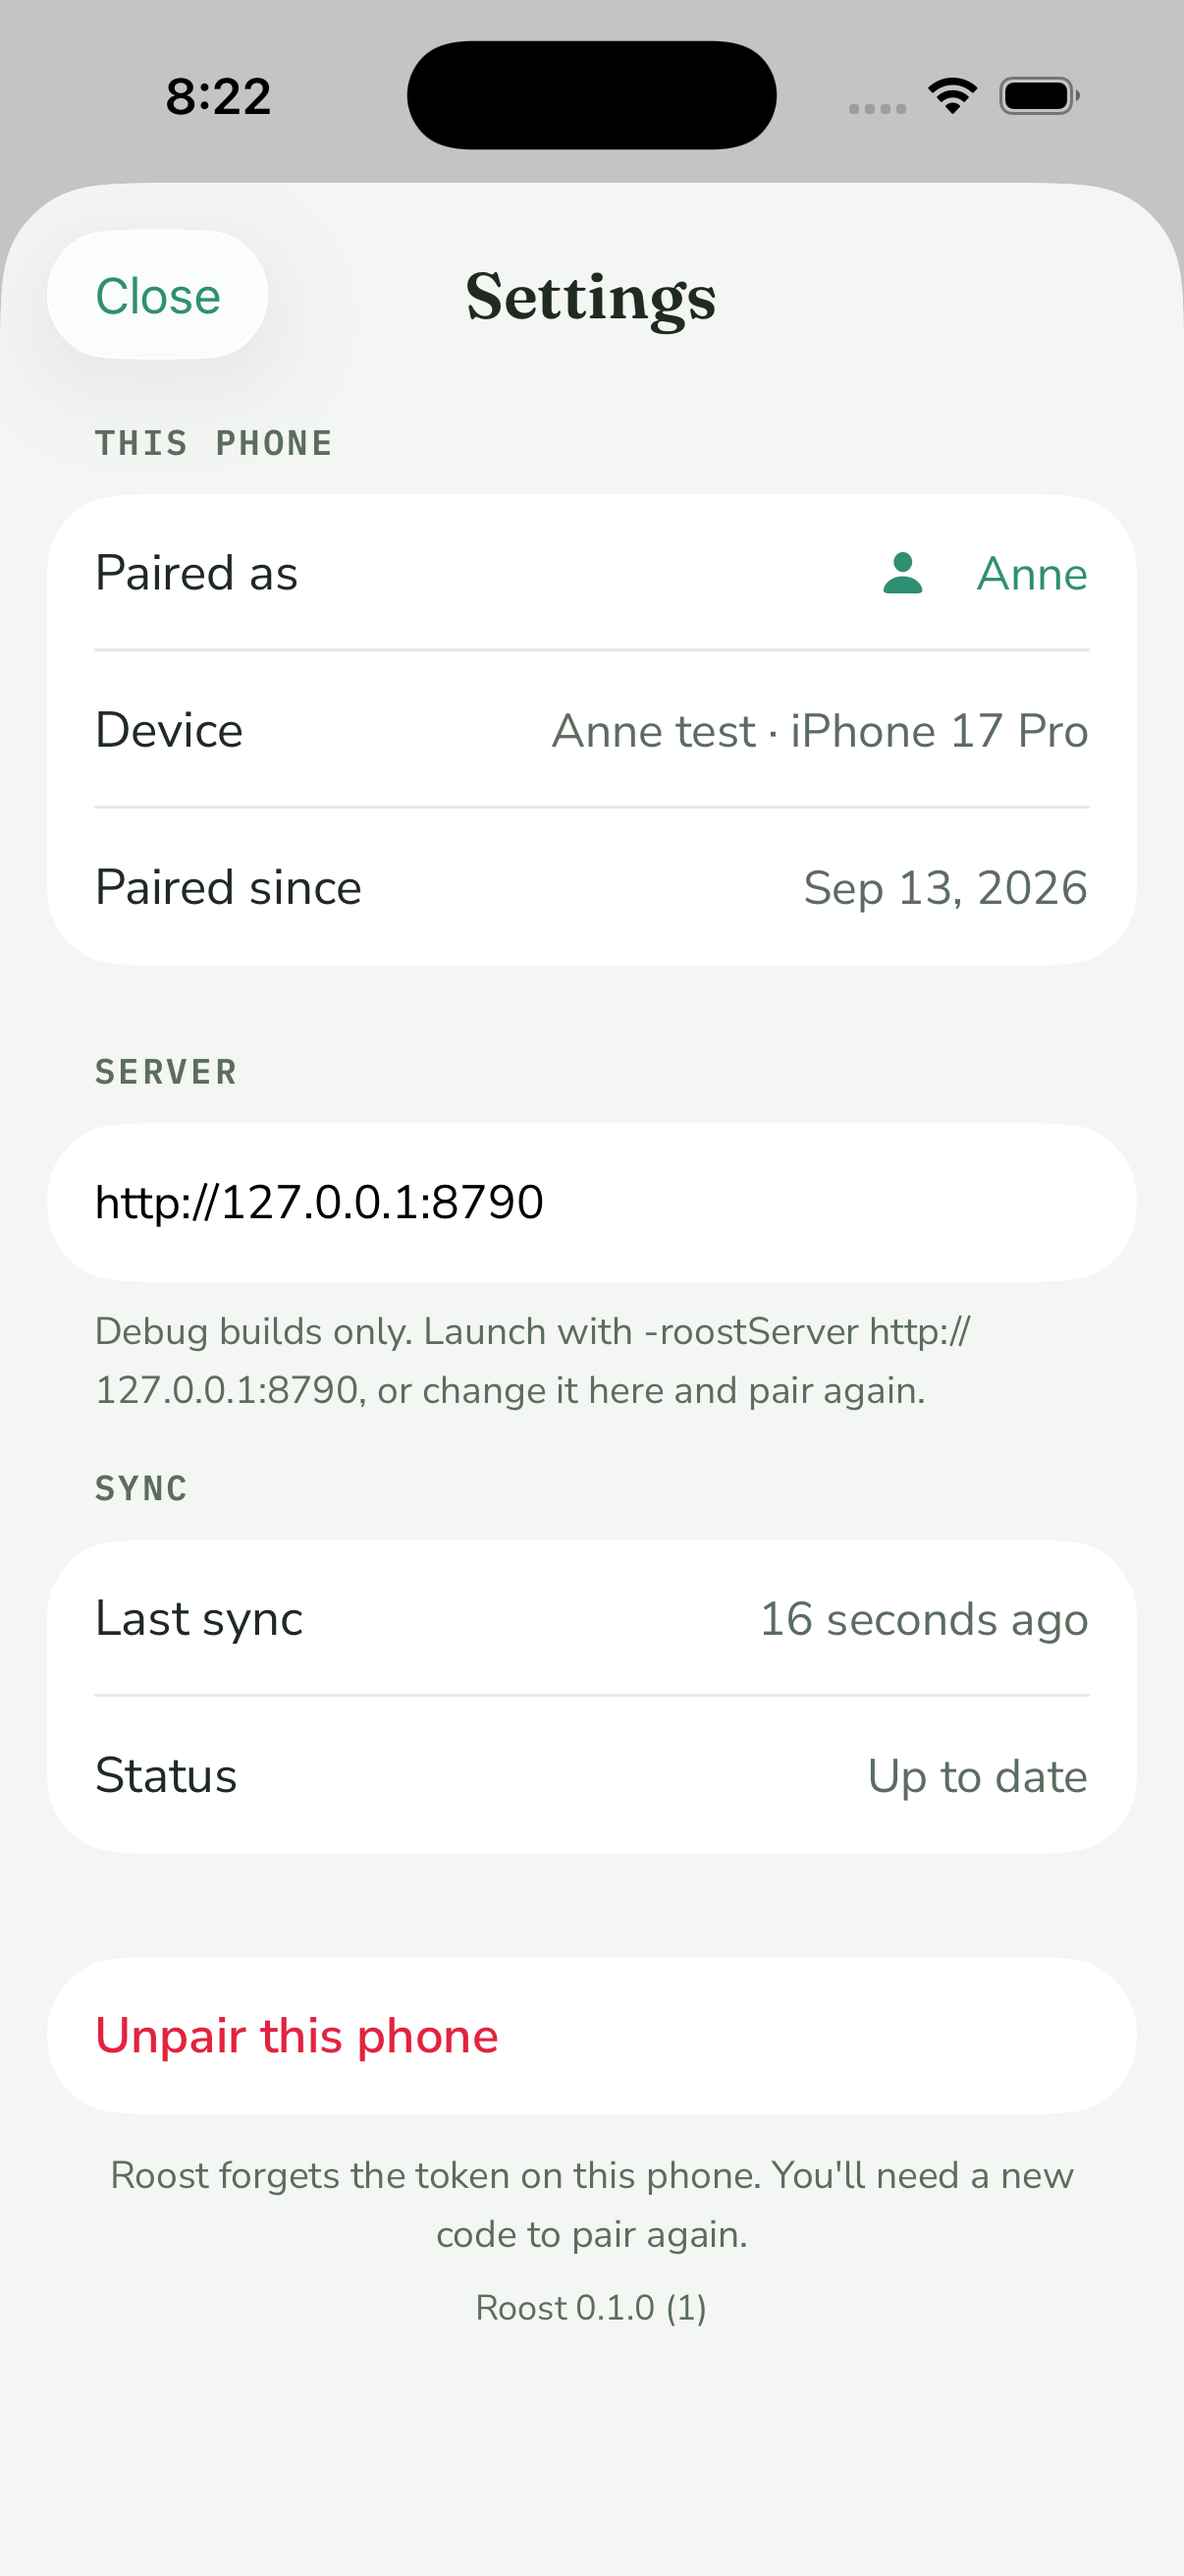
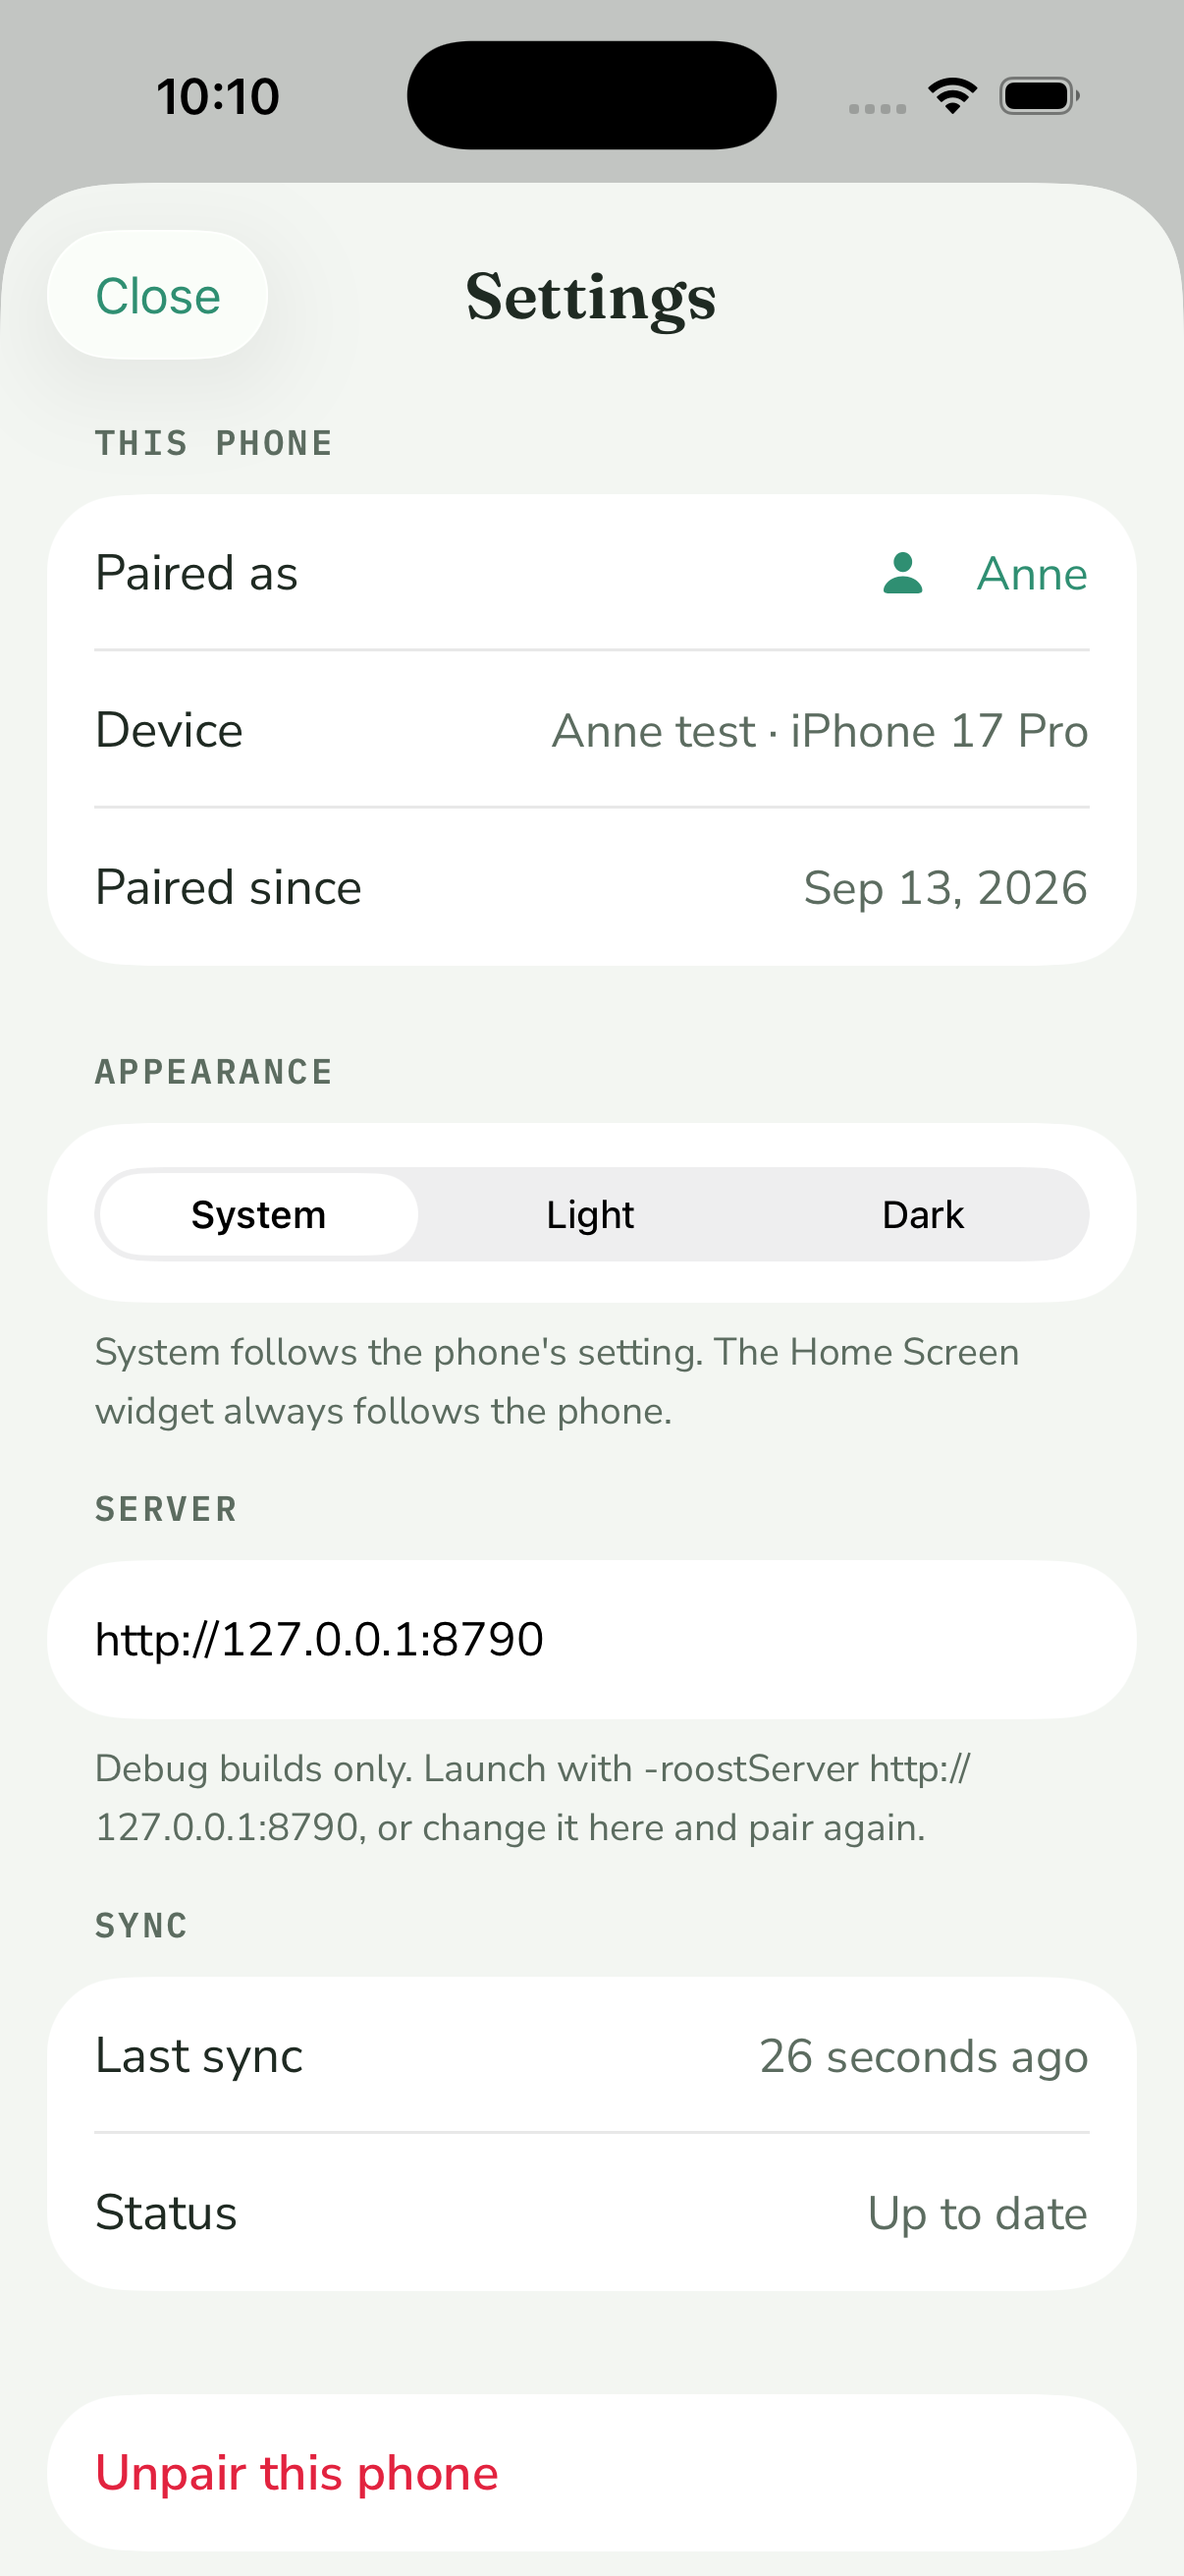
Appearance choice in Settings: System, Light, Dark
Every RoostDesign token has always had a light and a dark value, so the app
has drawn itself in dark mode since the first screen. What it had no way to
do was disagree with the phone. This is that switch.

`Appearance` is one key in UserDefaults read by `RoostApp` as a single
`.preferredColorScheme` on the window's content, which is why one tap
repaints the sheet it was tapped in, the Tasks tab behind it, and Kitchen
mode's cover together. `system` maps to nil — "do not override" — so it is
the phone's setting again rather than a third palette. A stored value this
build does not recognise reads as `system` rather than leaving the picker
with no selection, and `Appearance.stored` is the one read that decides it.

`SettingsScreen` repeats the same modifier on itself, and that line is
load-bearing: a sheet presented while the window already carries an override
keeps the scheme it was born with. Without it, picking Light with Dark
already on repainted the screen behind and left the sheet dark until it was
dismissed — which is the one moment the reader is looking at the sheet.

Segments up to the accessibility sizes, a menu past them: three words cannot
share one row's width once each is 50-odd points tall. Checked at
AccessibilityXXXL, where the row reads "Appearance / Dark" and nothing
truncates.

Per device, never synced. The widget cannot follow it — WidgetKit renders a
separate process in the system appearance — and the footer under the picker
says so.

diff --git a/Roost/Tests/AppearanceTests.swift b/Roost/Tests/AppearanceTests.swift
@@ -1,0 +1,94 @@
+// D-10: the appearance choice.
+//
+// Three small contracts, and each of them is a way the screen could go wrong rather than a restatement of
+// the enum. The **raw values** are what sits in `UserDefaults` on a phone that has already been used, so
+// renaming one silently resets everybody's choice. The **mapping** is the whole feature: `nil` is what
+// "follow the phone" means to SwiftUI, and a `.light` that came back `nil` would look like the setting had
+// no effect at all. And the **fallback** is the downgrade path — a value written by a newer build, or junk
+// — which has to read as `.system` rather than leave the picker with no selection.
+@testable import Roost
+import SwiftUI
+import XCTest
+
+final class AppearanceTests: XCTestCase {
+    // MARK: - what is on disk
+
+    /// The strings a shipped phone already has stored. Changing one is changing everybody's setting back.
+    func testTheRawValuesAreTheOnesWrittenToDisk() {
+        XCTAssertEqual(Appearance.system.rawValue, "system")
+        XCTAssertEqual(Appearance.light.rawValue, "light")
+        XCTAssertEqual(Appearance.dark.rawValue, "dark")
+        XCTAssertEqual(Appearance.storageKey, "appearance")
+    }
+
+    /// Left to right in the segmented control, and the order the menu lists.
+    func testTheChoicesComeOutSystemLightDark() {
+        XCTAssertEqual(Appearance.allCases, [.system, .light, .dark])
+        XCTAssertEqual(Appearance.allCases.map(\.id), ["system", "light", "dark"])
+    }
+
+    func testEveryChoiceHasItsOwnTitle() {
+        XCTAssertEqual(Appearance.system.title, Strings.Settings.appearanceSystem)
+        XCTAssertEqual(Appearance.light.title, Strings.Settings.appearanceLight)
+        XCTAssertEqual(Appearance.dark.title, Strings.Settings.appearanceDark)
+        XCTAssertEqual(Set(Appearance.allCases.map(\.title)).count, Appearance.allCases.count)
+    }
+
+    // MARK: - what the window is told
+
+    /// `nil` is not "no answer" — it is the answer. It is what hands the decision back to iOS, and it is
+    /// the only value that lets the phone's own setting still move the app.
+    func testSystemOverridesNothing() {
+        XCTAssertNil(Appearance.system.colorScheme)
+    }
+
+    func testLightAndDarkOverrideThePhone() {
+        XCTAssertEqual(Appearance.light.colorScheme, .light)
+        XCTAssertEqual(Appearance.dark.colorScheme, .dark)
+    }
+
+    // MARK: - reading it back
+
+    /// A phone that has never been to Settings.
+    func testNothingStoredIsSystem() {
+        XCTAssertEqual(Appearance.stored(nil), .system)
+    }
+
+    func testAStoredChoiceComesBack() {
+        XCTAssertEqual(Appearance.stored("system"), .system)
+        XCTAssertEqual(Appearance.stored("light"), .light)
+        XCTAssertEqual(Appearance.stored("dark"), .dark)
+    }
+
+    /// A value from a newer build, a leftover, an empty string, a case that does not match. All of them are
+    /// the system appearance, which is the one state that is never wrong.
+    func testAnythingElseIsSystem() {
+        for raw in ["", "sepia", "Dark", "true", "  light  ", "0"] {
+            XCTAssertEqual(Appearance.stored(raw), .system, "'\(raw)' should fall back rather than stick")
+        }
+    }
+
+    /// The same read the app makes, through a real `UserDefaults` rather than a literal: `@AppStorage`
+    /// hands over whatever string is under the key, and `stored` is the only thing between that and the
+    /// window's colour scheme.
+    func testAJunkValueUnderTheKeyReadsAsSystem() throws {
+        let suite = "roost-appearance-tests-\(UUID().uuidString)"
+        let defaults = try XCTUnwrap(UserDefaults(suiteName: suite))
+        defer { defaults.removePersistentDomain(forName: suite) }
+
+        XCTAssertEqual(Appearance.stored(defaults.string(forKey: Appearance.storageKey)), .system)
+
+        defaults.set("dark", forKey: Appearance.storageKey)
+        XCTAssertEqual(Appearance.stored(defaults.string(forKey: Appearance.storageKey)), .dark)
+
+        defaults.set("moonlight", forKey: Appearance.storageKey)
+        XCTAssertEqual(Appearance.stored(defaults.string(forKey: Appearance.storageKey)), .system)
+    }
+
+    /// Round trip: what the picker writes is what the app reads.
+    func testWhatThePickerWritesIsWhatTheAppReads() {
+        for choice in Appearance.allCases {
+            XCTAssertEqual(Appearance.stored(choice.rawValue), choice)
+        }
+    }
+}

diff --git a/Roost/Sources/Screens/SettingsScreen.swift b/Roost/Sources/Screens/SettingsScreen.swift
@@ -21,7 +21,13 @@ import SwiftUI
 struct SettingsScreen: View {
     @Environment(SyncCoordinator.self) private var sync
     @Environment(\.modelContext) private var context
+    @Environment(\.dynamicTypeSize) private var dynamicTypeSize
     @Query private var syncStates: [SyncState]
+
+    /// The same key `RoostApp` reads. Two `@AppStorage`s on one key are one value: writing it here moves
+    /// the window's `preferredColorScheme` in the same frame, so the sheet and the screen behind it change
+    /// together with nothing to relaunch.
+    @AppStorage(Appearance.storageKey) private var storedAppearance = Appearance.system.rawValue
 
     @State private var model: SettingsModel?
     @State private var confirmingUnpair = false
@@ -46,6 +52,7 @@ struct SettingsScreen: View {
     var body: some View {
         Form {
             phoneSection
+            appearanceSection
             serverSection
             syncSection
             unpairSection
@@ -83,6 +90,12 @@ struct SettingsScreen: View {
             Text(unpairNote)
         }
         .tint(RoostColor.Role.accent.color)
+        // The same answer `RoostApp` gives the window, said again for this sheet. A sheet presented while
+        // the window already carries an override keeps the scheme it was born with — verified in the
+        // simulator: with Dark already on, picking Light repainted the Tasks screen behind and left this
+        // sheet dark until it was dismissed. One line here is what makes the picker turn its own screen
+        // over in the same frame as the rest of the app.
+        .preferredColorScheme(appearance.wrappedValue.colorScheme)
     }
 
     // MARK: this phone
@@ -107,6 +120,57 @@ struct SettingsScreen: View {
         } header: {
             SettingsHeader(Strings.Settings.phoneHeader)
         }
+    }
+
+    // MARK: appearance
+
+    /// Three words side by side, because the choice is one glance and one tap rather than a screen to
+    /// navigate into. The selection is the app's lightest haptic: the change is already visible everywhere,
+    /// so the feel only has to confirm which segment took the tap.
+    private var appearanceSection: some View {
+        Section {
+            appearancePicker
+                .accessibilityLabel(Strings.Settings.appearanceLabel)
+                .roostHaptic(.selection, trigger: appearance.wrappedValue)
+                .listRowBackground(RoostColor.Role.surface.color)
+        } header: {
+            SettingsHeader(Strings.Settings.appearanceHeader)
+        } footer: {
+            Text(Strings.Settings.appearanceFooter)
+                .roostType(.footnote)
+                .foregroundStyle(RoostColor.Role.textSecondary.color)
+        }
+    }
+
+    /// Segments up to the accessibility sizes, a menu past them. A segmented control divides one row's
+    /// width between its choices, which is fine for three short words and unreadable once each word is
+    /// 50-odd points tall — at AX1 and up "System" and "Light" are both cut to a letter or two. The menu
+    /// style is the same `Picker` drawn as a row: the label leads, the choice sits on the trailing side,
+    /// and it grows with the text like every other row on this screen.
+    @ViewBuilder
+    private var appearancePicker: some View {
+        if dynamicTypeSize.isAccessibilitySize {
+            picker.pickerStyle(.menu)
+        } else {
+            picker.pickerStyle(.segmented)
+        }
+    }
+
+    private var picker: some View {
+        Picker(Strings.Settings.appearanceLabel, selection: appearance) {
+            ForEach(Appearance.allCases) { choice in
+                Text(choice.title).tag(choice)
+            }
+        }
+    }
+
+    /// The stored raw value, read as a choice. Anything unrecognised reads as `.system` rather than leaving
+    /// the picker with no selection.
+    private var appearance: Binding<Appearance> {
+        Binding(
+            get: { Appearance.stored(storedAppearance) },
+            set: { storedAppearance = $0.rawValue }
+        )
     }
 
     // MARK: server

diff --git a/Roost/Sources/Models/Appearance.swift b/Roost/Sources/Models/Appearance.swift
@@ -1,0 +1,52 @@
+// Light, dark, or whatever the phone says.
+//
+// Every colour in `RoostDesign` has always had both values — the tokens are dynamic colours, so the app has
+// drawn itself in dark mode since the first screen. What it had no way to do was disagree with the phone.
+// This is that switch: one key in `UserDefaults`, read by `RoostApp` as a single `.preferredColorScheme` on
+// the window's content, which is why every screen turns over at once — the Settings sheet it is set from,
+// the Tasks tab behind it, and Kitchen mode's full-screen cover, all in the same frame.
+//
+// It is a per-device preference and it is deliberately not synced. Two phones, two people, two ideas about
+// what a screen should look like at midnight; the server has nothing to say about it.
+//
+// The widget is the one thing it cannot reach. A widget is a separate process rendered by WidgetKit in the
+// system's appearance, and nothing an app writes changes that — see `Roost/README.md`.
+import SwiftUI
+
+enum Appearance: String, CaseIterable, Identifiable, Sendable {
+    /// Follow iOS. The default, and what every build before this one did.
+    case system
+    case light
+    case dark
+
+    /// The `@AppStorage` key, spelled once so the app, the tests, and a future migration cannot disagree.
+    static let storageKey = "appearance"
+
+    var id: String {
+        rawValue
+    }
+
+    /// What the window is told. `nil` is "do not override", which is what following the phone means.
+    var colorScheme: ColorScheme? {
+        switch self {
+        case .system: nil
+        case .light: .light
+        case .dark: .dark
+        }
+    }
+
+    var title: String {
+        switch self {
+        case .system: Strings.Settings.appearanceSystem
+        case .light: Strings.Settings.appearanceLight
+        case .dark: Strings.Settings.appearanceDark
+        }
+    }
+
+    /// Reads what is on disk. Nothing stored is `.system`, and so is anything this build does not recognise
+    /// — a value written by a newer version, or junk. A phone that has been downgraded shows the system
+    /// appearance rather than a crash.
+    static func stored(_ raw: String?) -> Appearance {
+        raw.flatMap(Appearance.init(rawValue:)) ?? .system
+    }
+}

diff --git a/Roost/Sources/RoostApp.swift b/Roost/Sources/RoostApp.swift
@@ -11,6 +11,10 @@ struct RoostApp: App {
     let container: ModelContainer
     @State private var sync: SyncCoordinator
     @Environment(\.scenePhase) private var scenePhase
+    /// Gear → Settings → Appearance, stored on this phone and nowhere else. The raw value rather than the
+    /// enum, so a string this build does not know reads as `.system` instead of taking the screen with it;
+    /// `Appearance.stored` is that read. See Models/Appearance.swift.
+    @AppStorage(Appearance.storageKey) private var storedAppearance = Appearance.system.rawValue
 
     init() {
         try? RoostFonts.register()
@@ -40,6 +44,10 @@ struct RoostApp: App {
         WindowGroup {
             RootGate()
                 .environment(sync)
+                // One override for the whole window, which is the only place it can go: the Settings sheet
+                // and Kitchen mode's full-screen cover are presented from inside it, so they turn over in
+                // the same frame as the screen behind them. `nil` hands the decision back to iOS.
+                .preferredColorScheme(Appearance.stored(storedAppearance).colorScheme)
                 // Launch and every return to the front: ask APNs for this phone's address again, because a
                 // token can rotate and there is no notification when it does. `PushService` only sends one
                 // the server does not already have.

diff --git a/Roost/Sources/Strings.swift b/Roost/Sources/Strings.swift
@@ -493,6 +493,17 @@ enum Strings {
         /// A device from the tokens file has no pairing date, because nothing paired it.
         static let pairedHandMinted = "Set up by hand"
 
+        static let appearanceHeader = "APPEARANCE"
+        /// The picker's own label. It is the row's leading text at the accessibility sizes, where the
+        /// segmented control gives way to a menu, and it is what VoiceOver reads either way.
+        static let appearanceLabel = "Appearance"
+        static let appearanceSystem = "System"
+        static let appearanceLight = "Light"
+        static let appearanceDark = "Dark"
+        /// Two facts, both of which come up the first time somebody picks Dark: what System means, and why
+        /// the Home Screen did not change with everything else.
+        static let appearanceFooter = "System follows the phone's setting. The Home Screen widget always follows the phone."
+
         static let serverHeader = "SERVER"
         static let serverField = "Address"
         /// Debug builds only: the field is editable and the launch argument overrides everything.
